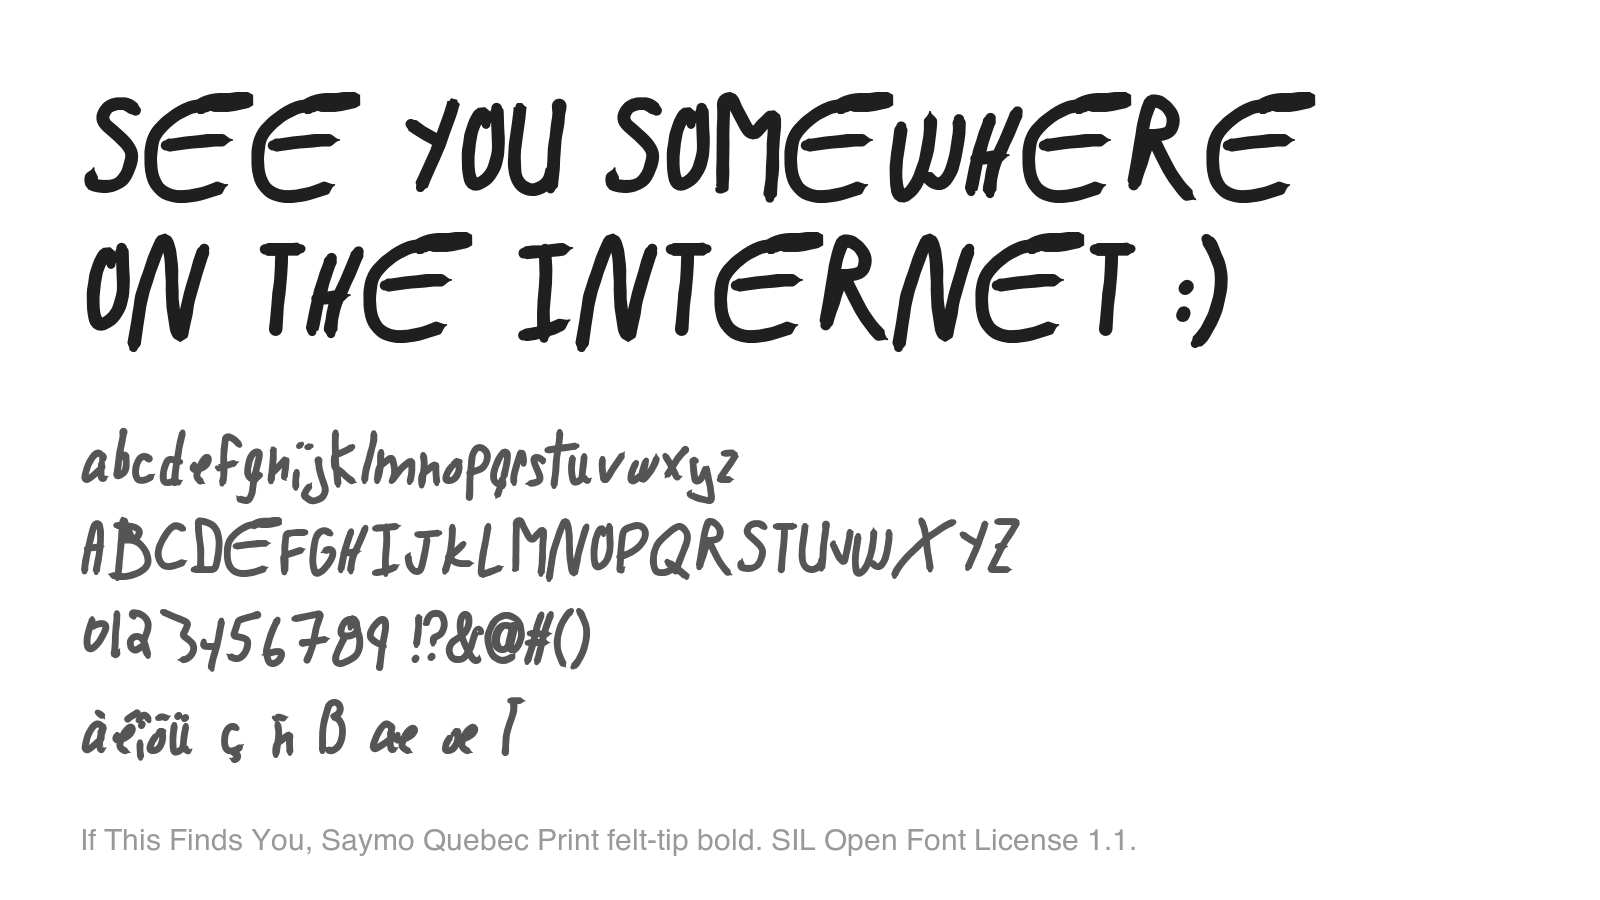
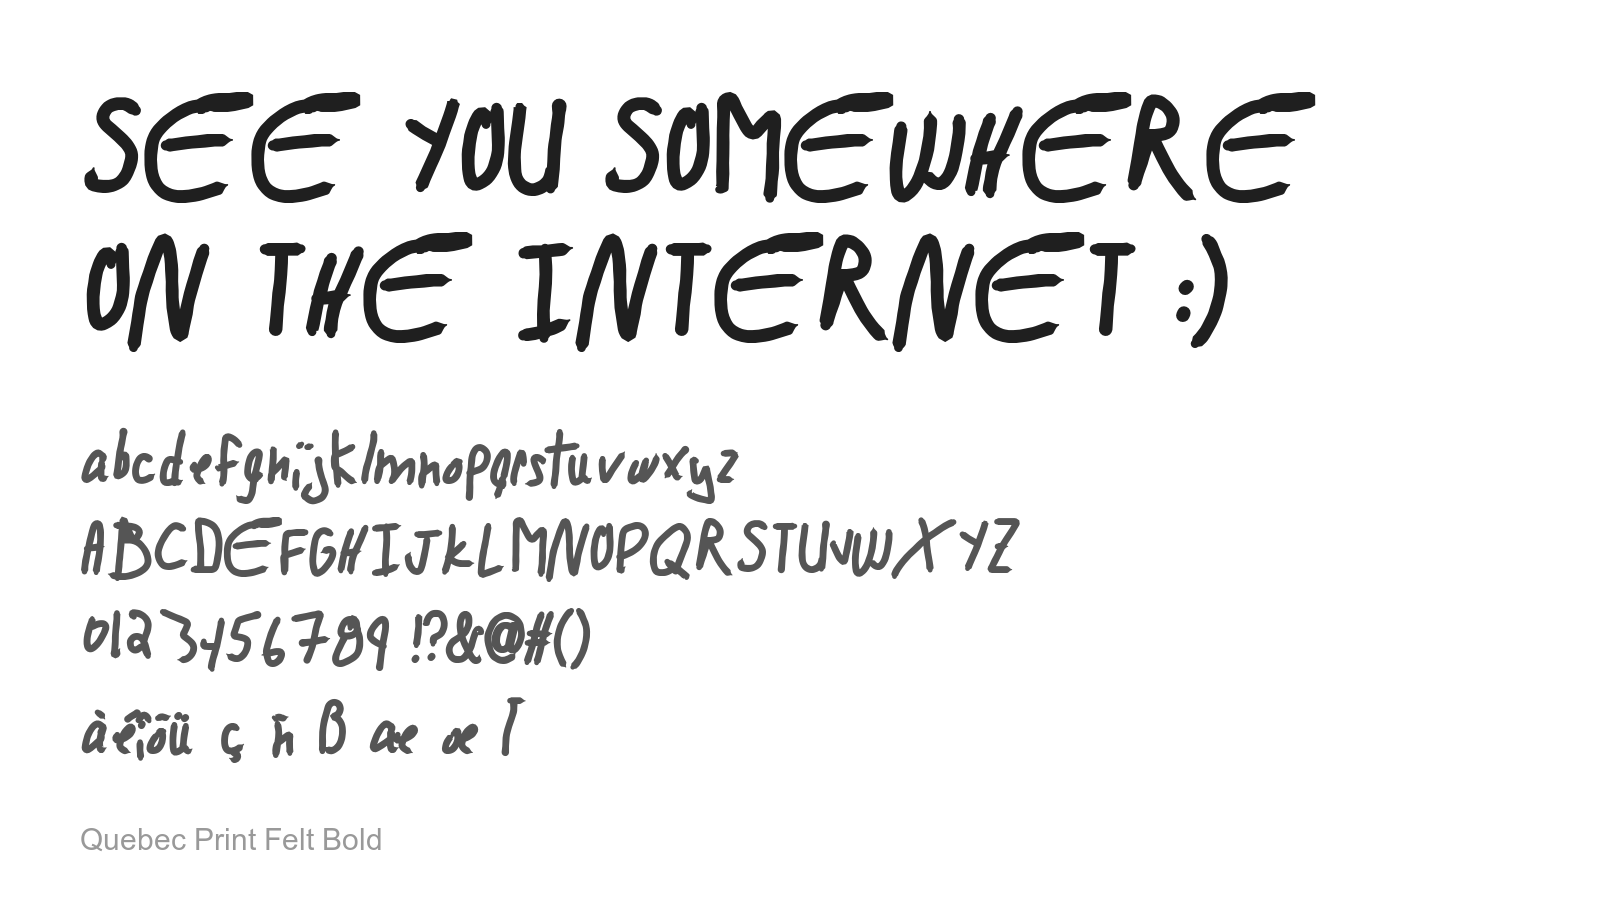
docs: lead with the font's short name and keep its makers in the credits
The title and the specimen now say Quebec Print Felt Bold. If This Finds You and the font's full
original name move into the credits, where they belong.

Changed region(s): [[0.0625, 0.9022, 0.6875, 0.9644]]

diff --git a/README.md b/README.md
@@ -1,14 +1,11 @@
-# IfThisFindsYou Saymo quebec-print-felt-bold GY3E
+# Quebec Print Felt Bold
 
-A bold felt-tip handwriting font from [If This Finds You](https://ifthisfindsyou.app), which
-creates fictional writers' hands based on real handwriting traditions. This one is the "Saymo
-Quebec Print, felt-tip bold" hand. You can use it for free, including in commercial work, under
-the [SIL Open Font License 1.1](https://openfontlicense.org).
+A bold felt-tip handwriting font. You can use it for free, including in commercial work, under the
+[SIL Open Font License 1.1](https://openfontlicense.org).
 
 ![A specimen of the font: "See you somewhere on the internet :)", then the lowercase and uppercase alphabets, figures and accented letters](specimen.png)
 
-The title above is the font's original name, exactly as it appears inside the font file. The font
-has uppercase and lowercase letters, figures, punctuation and accented Latin letters, 319
+It has uppercase and lowercase letters, figures, punctuation and accented Latin letters, 319
 characters in total.
 
 ## Files
@@ -44,7 +41,9 @@ The font reads best in capitals at large sizes, so try `text-transform: uppercas
 ## Credits
 
 - **Font:** The If This Finds You Project Authors, at
-  [ifthisfindsyou.app](https://ifthisfindsyou.app).
+  [ifthisfindsyou.app](https://ifthisfindsyou.app), who create fictional writers' hands based on
+  real handwriting traditions. Inside the font file it keeps its original name, "IfThisFindsYou
+  Saymo quebec-print-felt-bold GY3E".
 - **Handwriting:** the letters were traced from photographs of volunteers' handwritten copies made
   for Copiste d'un jour, a project of the Bibliothèque et Archives nationales du Québec (2024),
   published under the [Creative Commons Attribution 4.0 licence](https://creativecommons.org/licenses/by/4.0/).
